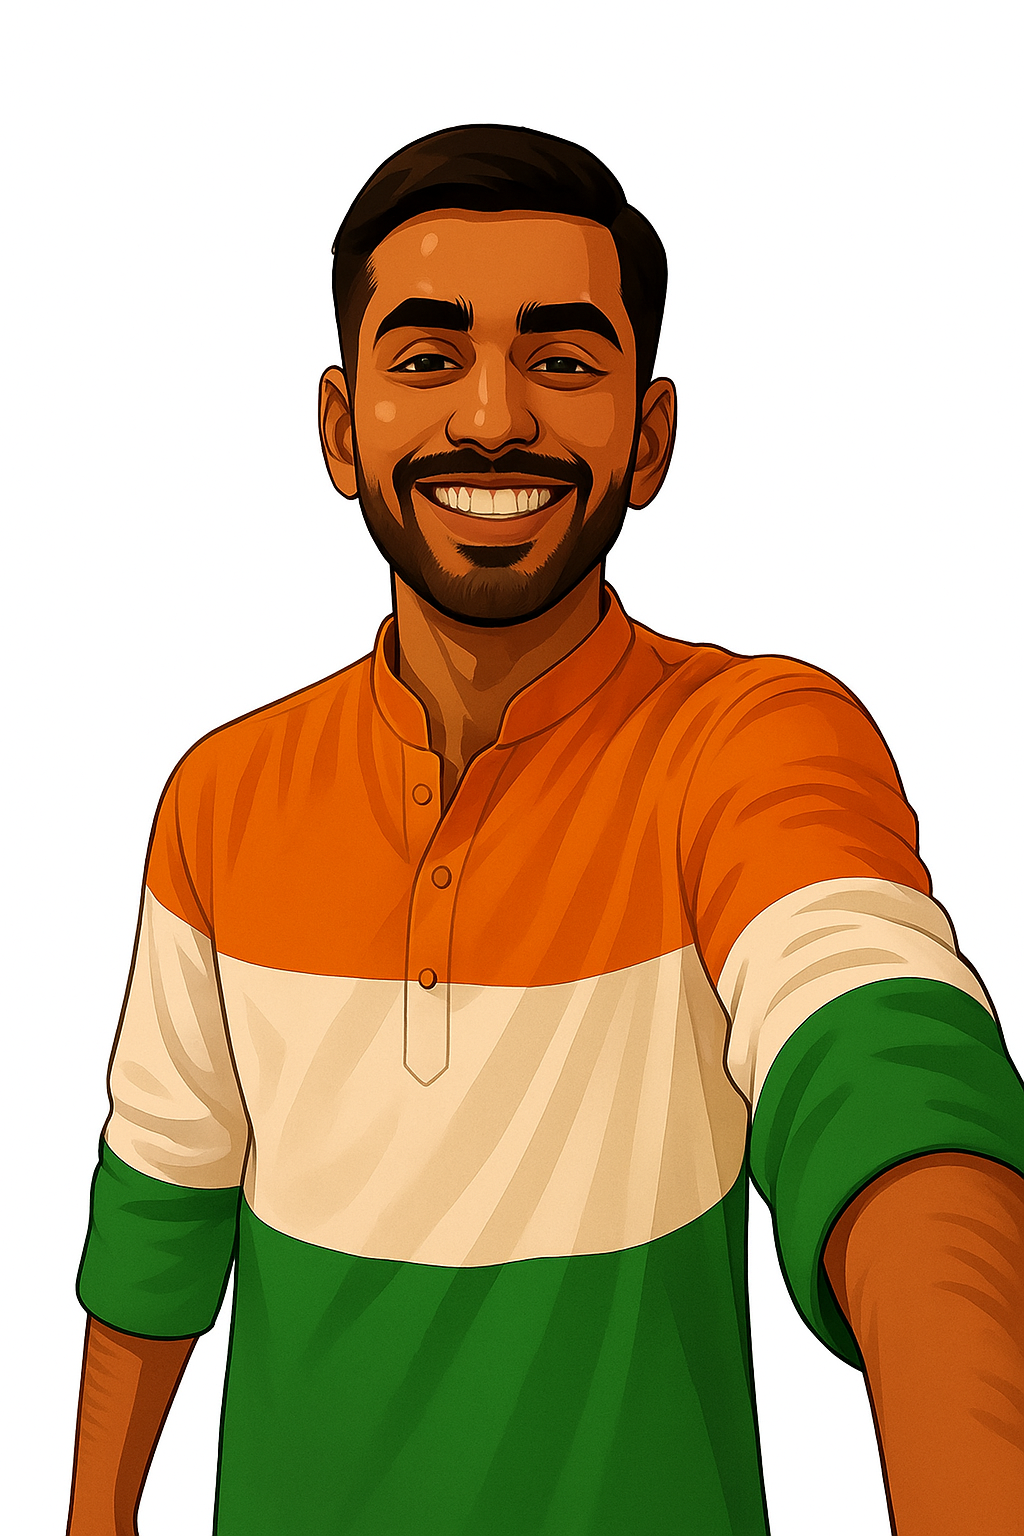
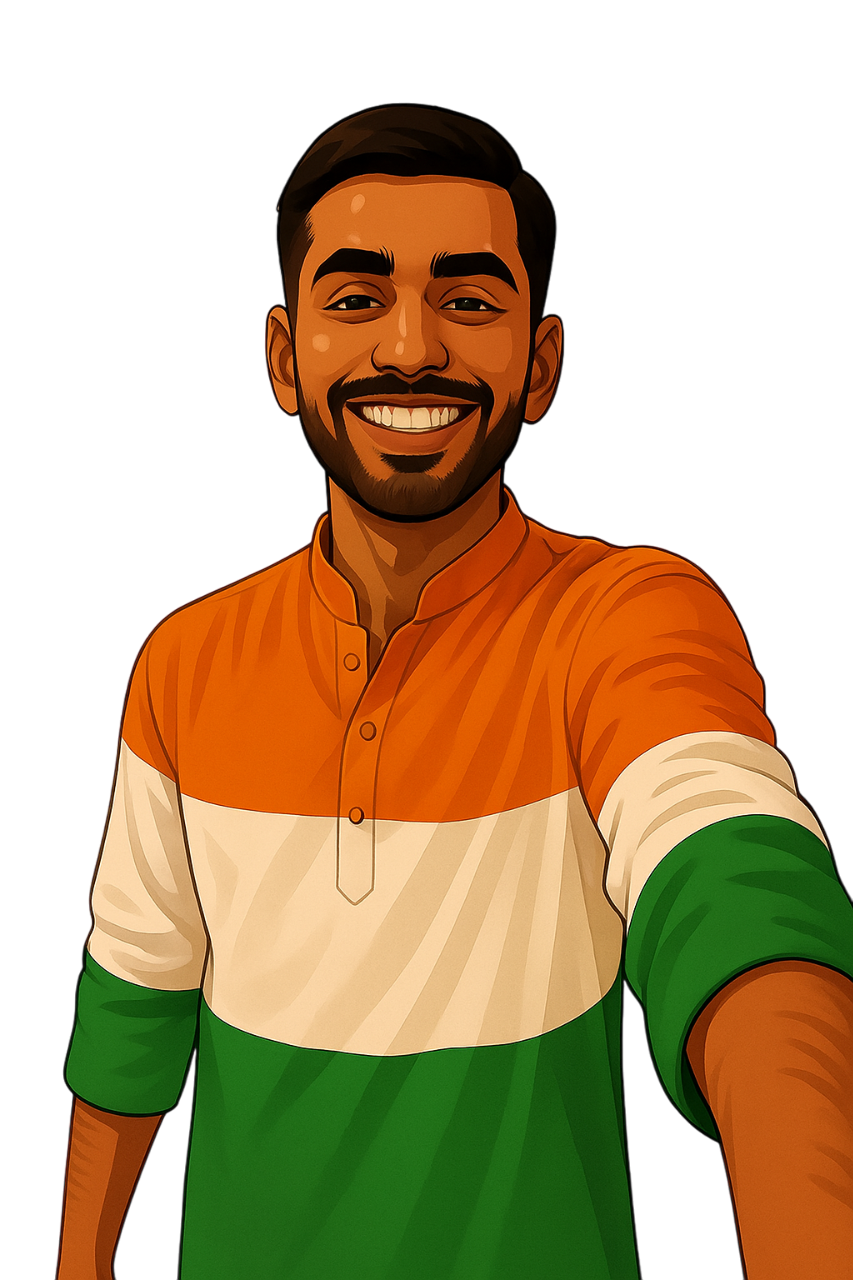
changes

diff --git a/Team06/src/App.jsx b/Team06/src/App.jsx
@@ -57,12 +57,13 @@ function App() {
     });
 
     gsap.to(".character", {
-      scale: 1.4,
+      scale: 1.1,
       x: "-50%",
       bottom: "-25%",
       rotate: 0,
       duration: 2,
       delay: "-.8",
+      objectFit: "cover",
       ease: "Expo.easeInOut",
     });
 
@@ -139,7 +140,7 @@ function App() {
                 alt=""
               />
               <img
-                className="absolute character -bottom-[150%] left-1/2 -translate-x-1/2 rotate-[-20deg] object-cover"
+                className="absolute h-full w-[30%] character -bottom-[200%] left-1/2 -translate-x-1/2 rotate-[-20deg] z-[5]"
                 src="public\images\character.png"
                 alt=""
               />
@@ -147,6 +148,7 @@ function App() {
           </div>
         </div>
       )}
+      <div className=""></div>
     </>
   );
 }
